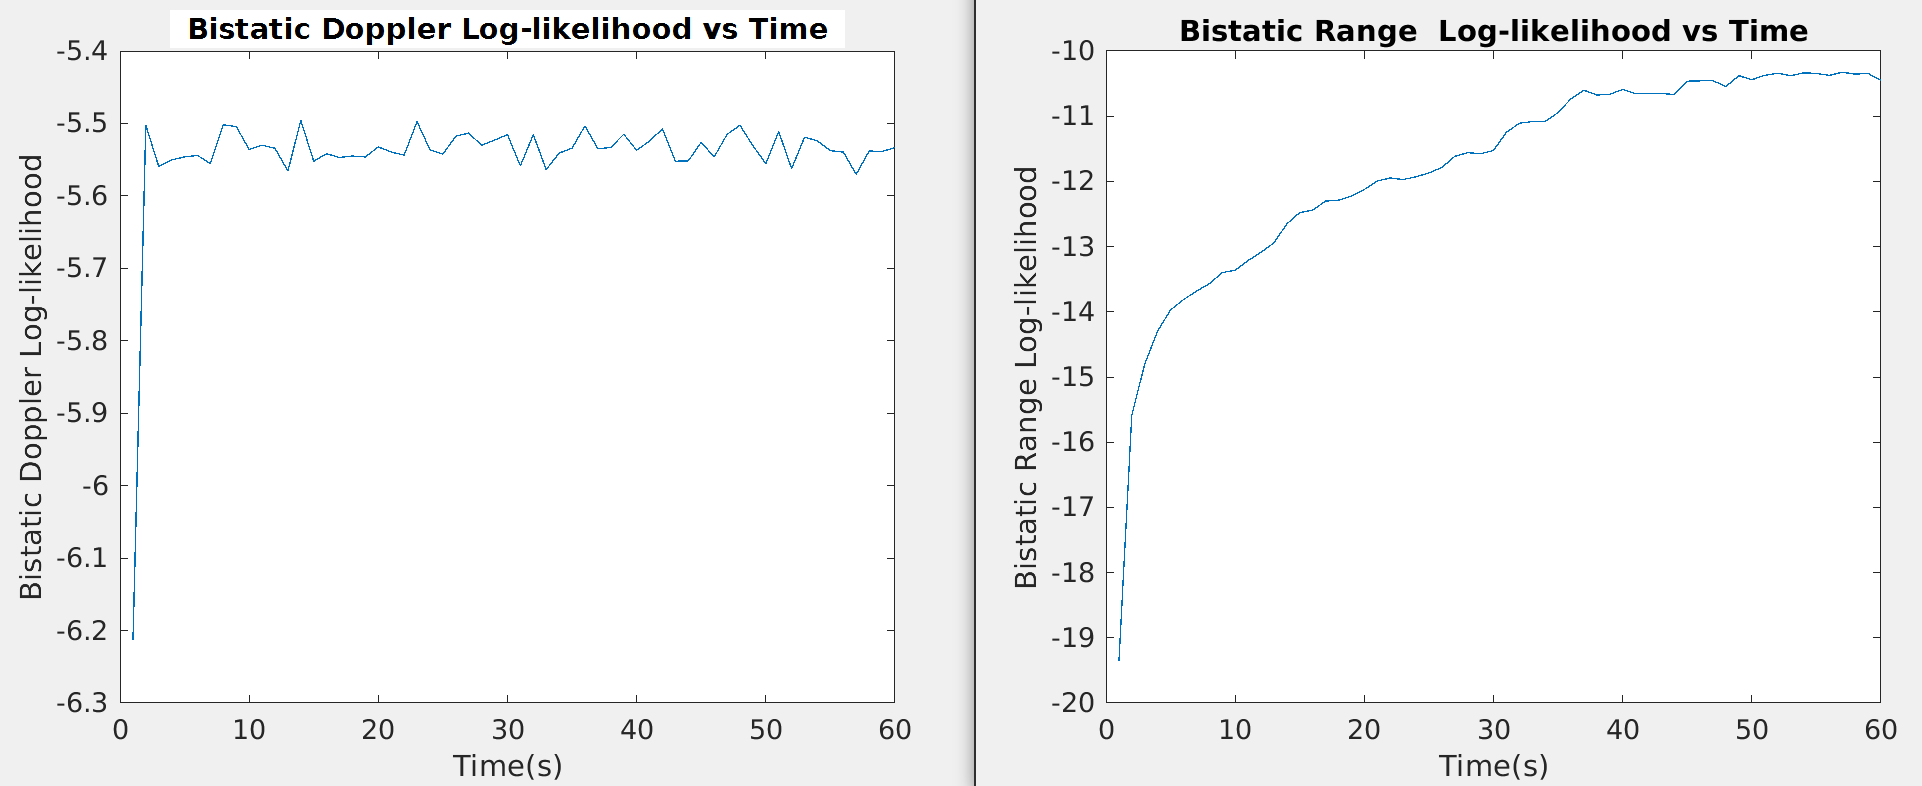
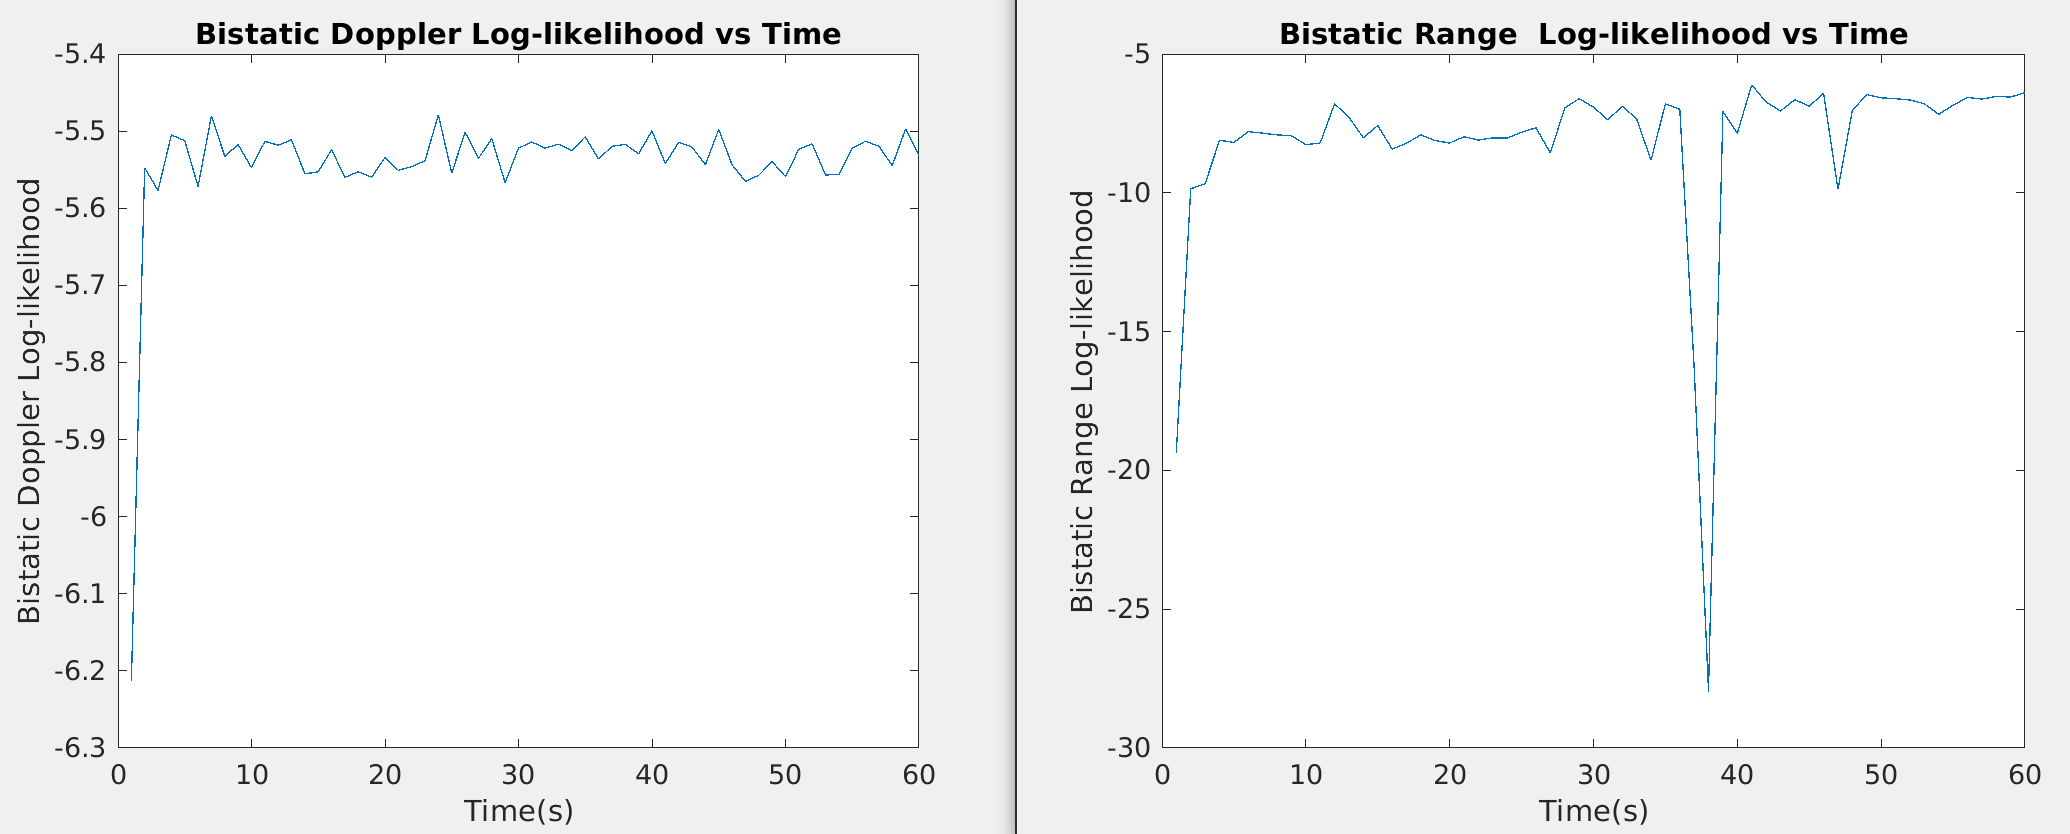
Particle Filter

diff --git a/multiTargetTracking/track.m b/multiTargetTracking/track.m
@@ -39,7 +39,7 @@ classdef track
 
                     N=5000;                                 %Number of particles
                     std_acc=10;                              %Standard Deviation of the process noise
-                    std_meas=[1500,1];                     %Standard Deviation of the measurements in the x and y
+                    std_meas=[100,1];                     %Standard Deviation of the measurements in the x and y
 
                     PF_object = particleFilter(dt,std_acc,std_meas,[x_initial(1);x_initial(2);0;],N);
                     obj.trackingFilterObject = PF_object;
